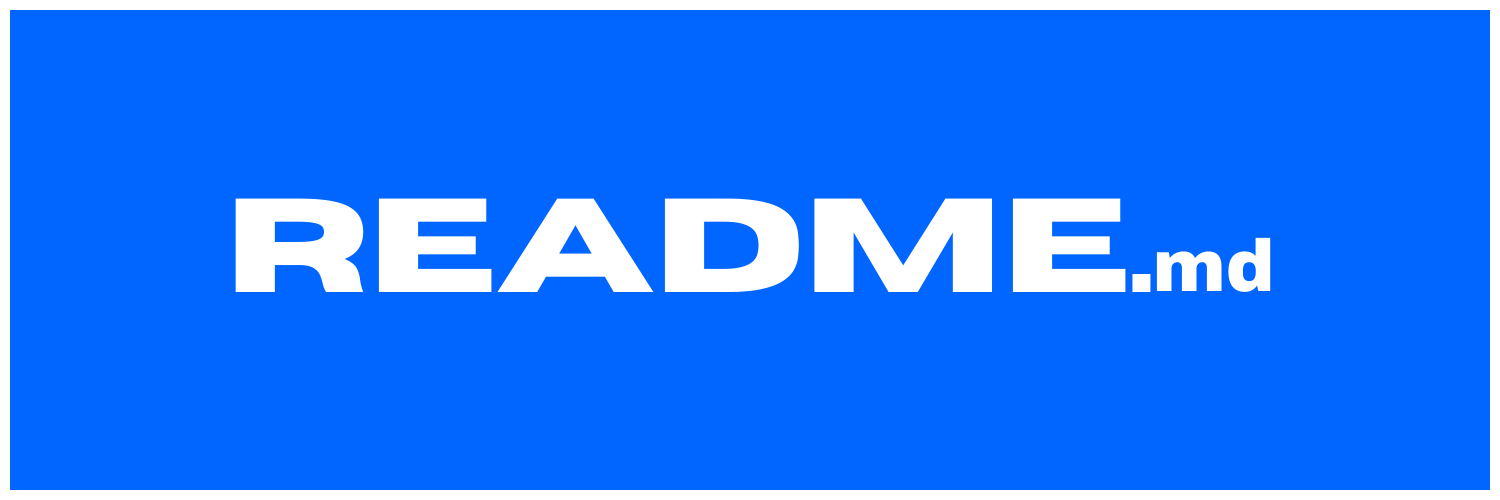
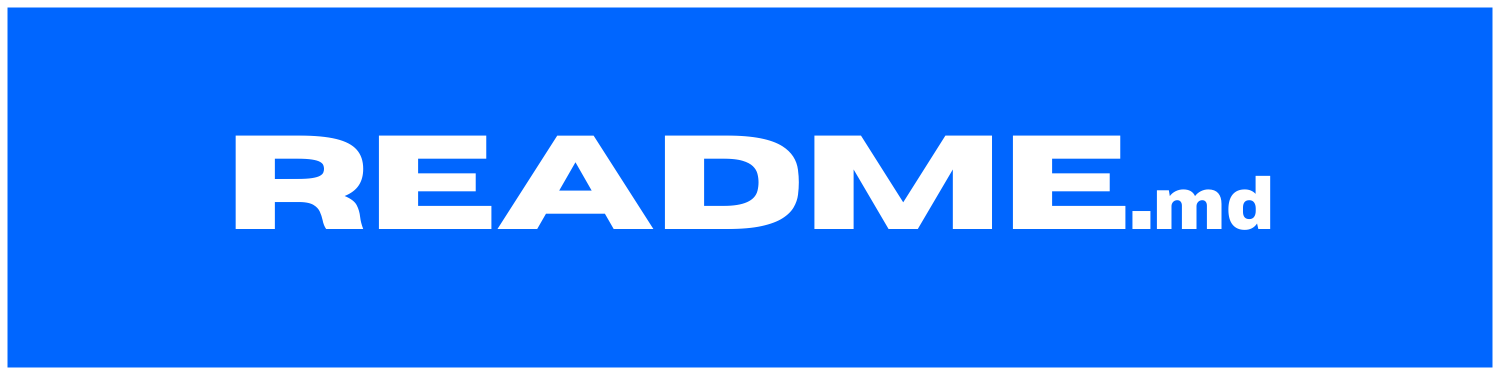
swap out smaller title graphic

diff --git a/README.md b/README.md
@@ -33,6 +33,8 @@ npm i
 <img alt='readme template run it section banner' src='./assets/readme_how-to-use.png'>
 </h2>
 
+<!-- #region -->
+
 <details>
 <summary><strong>DropDown:</strong></summary>
 
@@ -86,14 +88,19 @@ THE SOFTWARE IS PROVIDED “AS IS”, WITHOUT WARRANTY OF ANY KIND, EXPRESS OR I
 <img alt='readme template contribute section banner' src='./assets/readme_contribute.png'>
 </h2>
 
-Contribution instructions go here:
+### **ISSUES:**
+
+Lorem ipsum dolor sit amet, consectetur adipiscing elit. Sed lacus nulla, vehicula condimentum molestie at, bibendum vitae ante.
+
+### **PULL REQUESTS:**
+
+Lorem ipsum dolor sit amet, consectetur adipiscing elit. Sed lacus nulla, vehicula condimentum molestie at, bibendum vitae ante.
 
 <h2 id='resources' align='center'>
 <img alt='readme template resources section banner' src='./assets/readme_resources.png'>
 </h2>
 
-- adf
-- asdf
+- resource | [link](https://someline.internetland)
 
 <h2 id='connect' align='center'>
 <img alt='readme template connect section banner' src='./assets/readme_connect.png'>
@@ -104,3 +111,5 @@ Contribution instructions go here:
 ![GitHub followers](https://img.shields.io/github/followers/ephcoding?label=Follow&style=social)
 
 ![Twitter Follow](https://img.shields.io/twitter/follow/ephcoding?label=Follow&style=social)
+
+Email: ephraim@modevx.com
